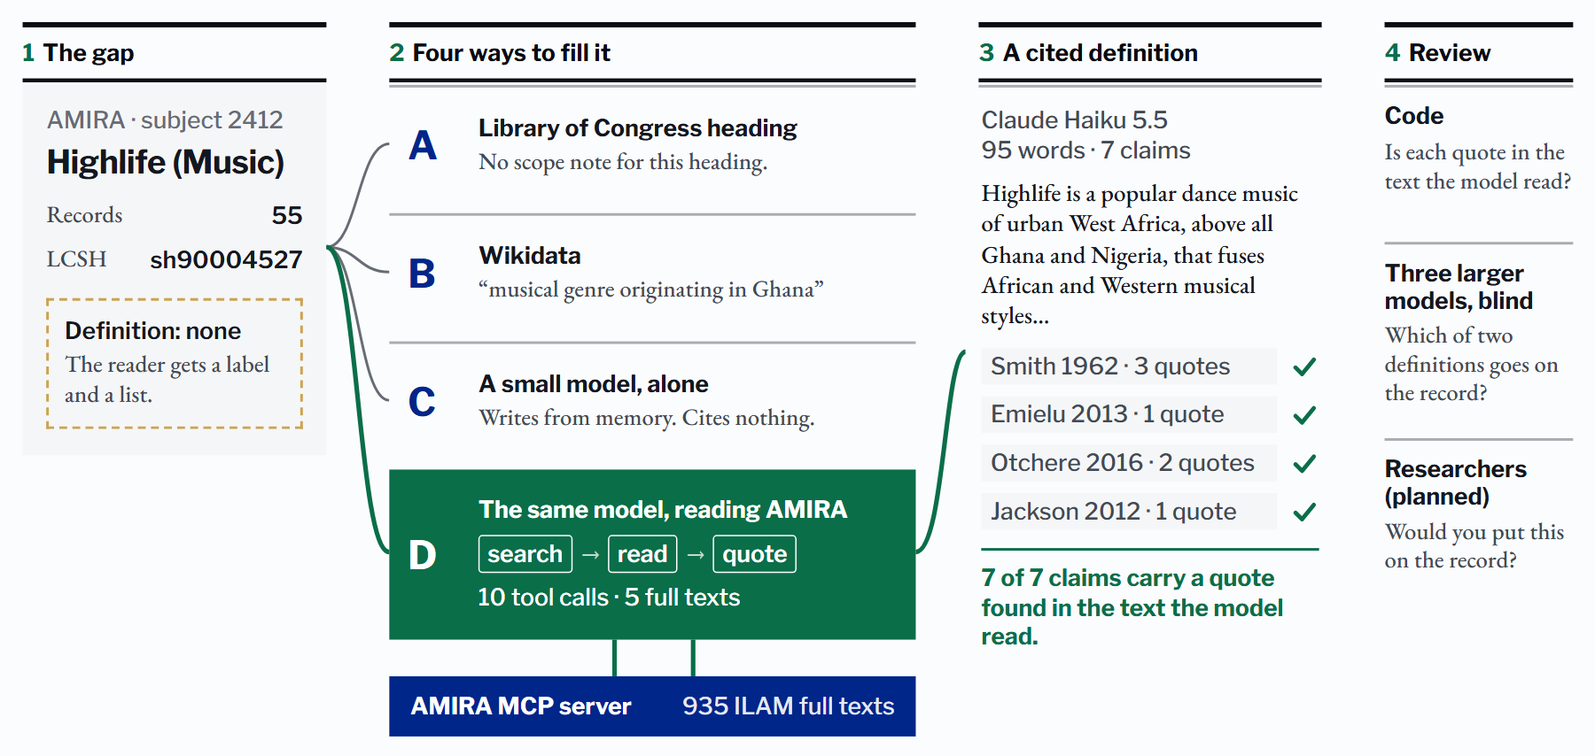
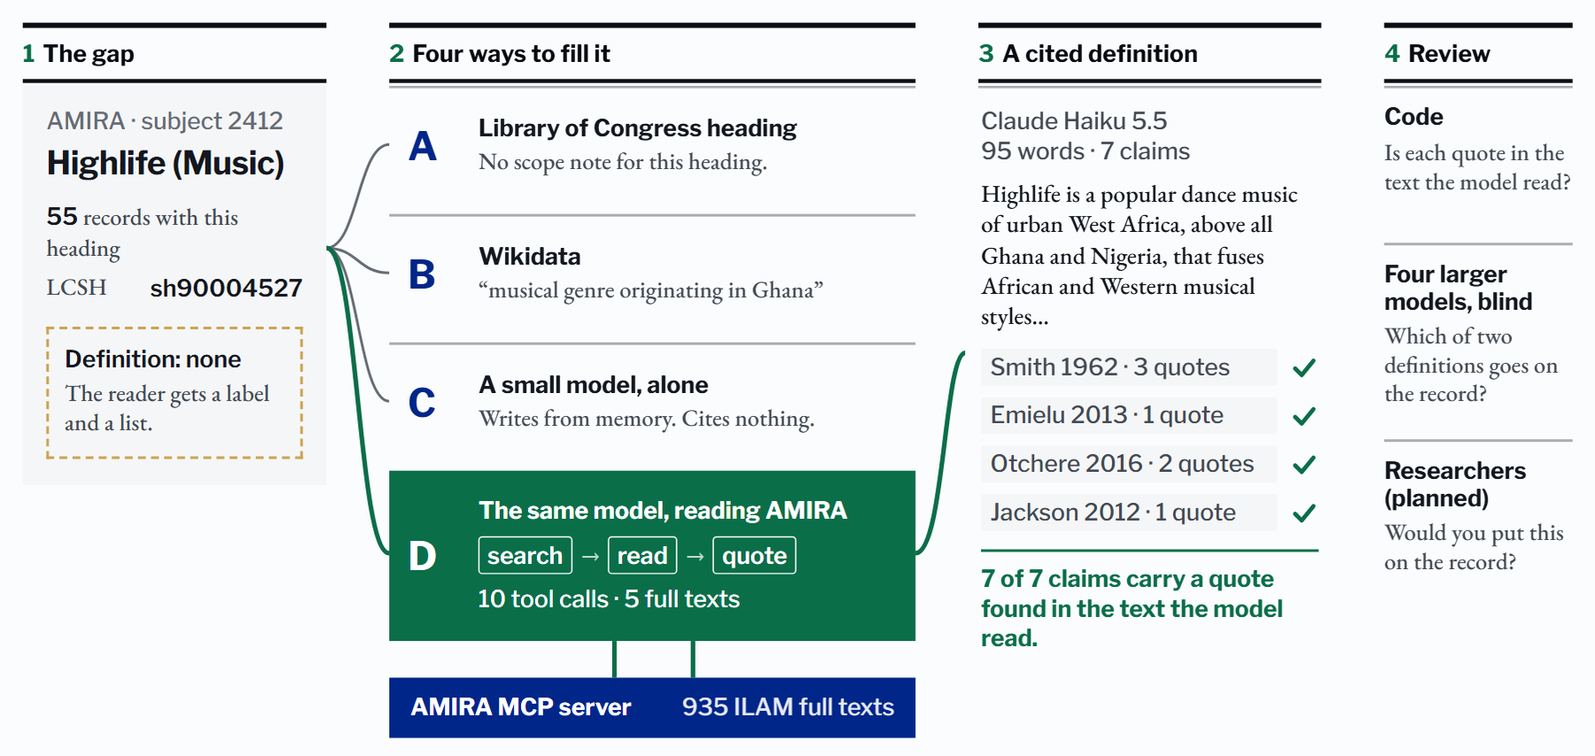
HKADH deck: panel of four judges, six authors, what the record count counts
- Blind panel: 45 pairs of 25 November, the reading without the judge of
  the author's family first, all four judges beside it.
- The gap and the pipeline: 55 records carry the heading (52 recordings,
  3 articles); four judge models; credit to the work upstream in the notes.
- Why MCP: named, read-only tools from a closed list; ten tools set in code.
- Limits: the aim is how this archive defines a concept.
- Next steps: ranked and semantic retrieval, local models, 50 concepts,
  review by researchers.
- Pipeline fallback image and reading edition regenerated.

diff --git a/talks/2027-01-21-hong-kong-knowledge-gaps-and-mediated-access/index.html b/talks/2027-01-21-hong-kong-knowledge-gaps-and-mediated-access/index.html
@@ -117,6 +117,8 @@
   .reveal .pl .record .rec-list { margin: 0; display: grid; grid-template-columns: auto 1fr; gap: 9px 14px; font-size: 18px; line-height: 1.2; }
   .reveal .pl .record .rec-k { color: var(--pl-ink-soft); }
   .reveal .pl .record .rec-v { margin: 0; font: 600 18px/1.35 var(--font-label); text-align: right; }
+  .reveal .pl .record .rec-n { grid-column: 1 / -1; }
+  .reveal .pl .record .rec-n b { font: 600 18px/1.35 var(--font-label); color: var(--pl-ink); }
   .reveal .pl .record .gap { grid-column: 1 / -1; margin-top: 8px; padding: 12px 12px 14px; border: 2px dashed var(--pl-gold); font: 600 18px/1.25 var(--font-label); }
   .reveal .pl .record .gap span { display: block; font: 500 18px/1.25 var(--pl-font-body); color: var(--pl-ink-soft); margin-top: 3px; }
 
@@ -333,6 +335,7 @@
             <li>Exposes the same catalogue to language models</li>
             <li>Plain-language tools the model selects itself</li>
             <li>Built-in rules on citation and private text</li>
+            <li>Named, read-only tools from a closed list</li>
             <li>One open standard across clients and our harness</li>
           </ul>
         </div>
@@ -342,8 +345,8 @@
         We set the tools and their outputs; the assistant and its provider control the final answer.
       </div>
       <aside class="notes">
-        <p>MCP stands for Model Context Protocol. AMIRA already exposes an Omeka S API, which requires a programmer to write a query for each new question. Our MCP server sits on top of it and presents the catalogue as named tools, alongside instructions on how to cite records and handle private text. A researcher asks a question in an assistant they already use, such as Claude, ChatGPT or a command-line agent, and the model picks the right tool, receives linked catalogue records and drafts a reply without anyone writing code.</p>
-        <p>Because the protocol is open, models from four providers ran against the same ten tools in our test harness. Control remains divided: we govern what the server exposes, while the model and its provider decide what enters the reply and whether our links survive. One practical constraint is keyword search, which misses variant spellings or other languages unless the record itself includes them.</p>
+        <p>MCP stands for Model Context Protocol. AMIRA already exposes an Omeka S API, which requires a programmer to write a query for each new question. Our MCP server sits on top of it and presents the catalogue as named tools, alongside instructions on how to cite records and handle private text. A researcher asks in an assistant they already use, and the model picks a tool, receives linked catalogue records and drafts a reply, with no code written.</p>
+        <p>Because the protocol is open, models from six makers ran against the same server in our harness. The harness gives them ten of its tools through a list in code, not through the prompt, and every tool only reads. Before any tool result, the instructions and tool descriptions take 3,901 to 7,470 tokens, depending on the provider. Control remains divided: we govern what the server exposes, while the model and its provider decide what enters the reply and whether our links survive.</p>
       </aside>
     </section>
 
@@ -395,7 +398,7 @@
         </figure>
         <div class="col">
           <dl class="evidence-reading">
-            <div><dt>Records</dt><dd>55</dd></div>
+            <div><dt>Records with this heading</dt><dd>55</dd></div>
             <div><dt>Definition</dt><dd>None</dd></div>
           </dl>
           <p class="lead">Readers also need to know what a concept means and how the research catalogued in AMIRA uses it.</p>
@@ -406,8 +409,8 @@
         </div>
       </div>
       <aside class="notes">
-        <p>Take the AMIRA subject Highlife (Music). It has fifty-five records and a link to its Library of Congress heading. A reader who has never heard of highlife gets a label and a list of records, and nothing that says what highlife is. Many authority records in AMIRA are in the same state; we have not yet counted how many.</p>
-        <p>The links show which records share a heading, but not what the concept means or how the researchers catalogued in AMIRA use it. That is the gap our pilot addresses: drafting a short definition grounded in those holdings, with every claim tied to an article.</p>
+        <p>Take the AMIRA subject Highlife (Music), linked to its Library of Congress heading. Fifty-five records carry that heading, as we read it on 25 November: fifty-two recordings and three articles. In full text, thirty-eight articles of the ILAM journal mention highlife, and only those three carry the heading. A reader who has never heard of highlife gets a label and a list, and nothing that says what highlife is. Many authority records in AMIRA are in the same state; we have not yet counted how many.</p>
+        <p>That is the gap our pilot addresses: drafting a short definition grounded in those holdings, with every claim tied to an article.</p>
       </aside>
     </section>
 
@@ -483,7 +486,7 @@
     </section>
 
     <section class="pipeline-slide" data-toc="The pipeline">
-      <div class="pl" role="img" aria-label="Pipeline: an AMIRA subject record with no definition is defined four ways (Library of Congress heading, Wikidata, a small model alone, the same model reading AMIRA through its MCP server). The route D result is a definition record whose quotes are checked by code against the text the model read. A blind panel of three larger models chooses between definitions; review by researchers is planned.">
+      <div class="pl" role="img" aria-label="Pipeline: an AMIRA subject record with no definition is defined four ways (Library of Congress heading, Wikidata, a small model alone, the same model reading AMIRA through its MCP server). The route D result is a definition record whose quotes are checked by code against the text the model read. A blind panel of four larger models chooses between definitions; review by researchers is planned.">
         <div class="pl-fit" aria-hidden="true"><div class="pl-stage">
         <!-- column heads -->
         <div class="col-head abs" data-step="0" style="left:48px;  top:128px; width:232px;"><b>1</b>The gap</div>
@@ -496,7 +499,7 @@
         <div class="id">AMIRA · subject 2412</div>
         <div class="rec-title">Highlife (Music)</div>
         <div class="rec-list">
-        <div class="rec-k">Records</div><div class="rec-v">55</div>
+        <div class="rec-k rec-n"><b>55</b> records with this heading</div>
         <div class="rec-k">LCSH</div><div class="rec-v">sh90004527</div>
         <div class="gap">Definition: none<span>The reader gets a label and a list.</span></div>
         </div>
@@ -565,13 +568,13 @@
         <div class="r-h">Code</div><div class="r-p">Is each quote in the text the model read?</div>
         </div>
         <div class="review abs" data-step="5" style="left:1088px; top:296px; width:144px;">
-        <div class="r-h">Three larger models, blind</div><div class="r-p">Which of two definitions goes on the record?</div>
+        <div class="r-h">Four larger models, blind</div><div class="r-p">Which of two definitions goes on the record?</div>
         </div>
         <div class="review abs" data-step="5" style="left:1088px; top:446px; width:144px;">
         <div class="r-h">Researchers (planned)</div><div class="r-p">Would you put this on the record?</div>
         </div>
         </div></div>
-        <img class="viz-fallback" hidden src="assets/pipeline.png" alt="Pipeline in four columns. The gap: the AMIRA subject Highlife (Music) has 55 records and no definition. Four ways to fill it: A, the Library of Congress heading, with no scope note; B, Wikidata, 'musical genre originating in Ghana'; C, a small model alone; D, the same model reading AMIRA through its MCP server. Only route D leads to a cited definition: Claude Haiku 5.5, 95 words, 7 claims, each with a quote found in the text the model read, from four sources. Review: by code, then by a blind panel of three larger models; review by researchers is planned.">
+        <img class="viz-fallback" hidden src="assets/pipeline.png" alt="Pipeline in four columns. The gap: the AMIRA subject Highlife (Music) is the heading of 55 records and has no definition. Four ways to fill it: A, the Library of Congress heading, with no scope note; B, Wikidata, 'musical genre originating in Ghana'; C, a small model alone; D, the same model reading AMIRA through its MCP server. Only route D leads to a cited definition: Claude Haiku 5.5, 95 words, 7 claims, each with a quote found in the text the model read, from four sources. Review: by code, then by a blind panel of four larger models; review by researchers is planned.">
       </div>
       <span class="fragment" data-pipeline-step aria-hidden="true"></span>
       <span class="fragment" data-pipeline-step aria-hidden="true"></span>
@@ -579,12 +582,12 @@
       <span class="fragment" data-pipeline-step aria-hidden="true"></span>
       <span class="fragment" data-pipeline-step aria-hidden="true"></span>
       <aside class="notes">
-        <p>[on arrival: the gap] Here is the pilot as a pipeline. It starts from the gap: the highlife record, with no definition.</p>
-        <p>[→ four ways: A and B] Routes A and B are the two baselines I have just shown.</p>
-        <p>[→ route C] Route C is a small language model on its own, with no tools. It writes from memory, which is likely to include Wikipedia, and cites nothing.</p>
+        <p>[on arrival: the gap] The pilot starts from the gap: the highlife record, with no definition. Its links to the Library of Congress and Wikidata rest on Jiayu Yang's work upstream, disambiguating our keywords and reconciling them with Wikidata.</p>
+        <p>[→ four ways: A and B] Routes A and B are the baselines I have just shown.</p>
+        <p>[→ route C] Route C is a small language model on its own, with no tools. It writes from memory and cites nothing.</p>
         <p>[→ route D] Route D is the same model reading AMIRA through the MCP server: it searches, reads full texts and quotes them. ILAM's text is private, so you will only see short quotes from it.</p>
         <p>[→ the cited definition] The answer comes back as a record: a definition of at most 120 words, and claims, each with a short quote of about twenty-five words at most and its source. Code checks every quote against the cited record's own text.</p>
-        <p>[→ review] Review has three layers. Code checks the quotes. A blind panel of three flagship models, larger than the small ones that write, chooses between two definitions. I will show its verdicts, which no researcher has calibrated yet. Review by researchers is still to come.</p>
+        <p>[→ review] Review has three layers. Code checks the quotes. A blind panel of four flagship models, larger than the six small ones that write, chooses between two definitions. Review by researchers is still to come.</p>
       </aside>
     </section>
 
@@ -701,8 +704,9 @@
       </div>
       <p class="source">Articles: full-text matches in <em>African Music</em> (ILAM). Wikidata, definitions (four models, one run per cell) and open verdicts (no answer key: Claude Opus 5.5, GPT-6 Astra, Gemini 4 Argon; uncalibrated; unanimous), 17 November 2026. Claude Haiku 5.5 left out: no usable grounded talking-drum definition.</p>
       <aside class="notes">
-        <p>A co-author suggested this test: one English name for several distinct drums. 'Talking drum' is the generic term, with fifty-seven articles in the journal. The Yoruba dùndún of Nigeria has twenty-six. The Akan donno of Ghana, also spelled dondo, has nine under the first spelling. Wikidata has an item for the talking drum only, and the Yoruba label 'Dundun' sits on the item for the Mande dunun, a different drum.</p>
-        <p>The donno is where the archive knows something the models do not. Alone, only one of four definitions places it in Ghana; one assigns it to the Fula and the Sahel and says it is unsure, and one describes a slit drum. Reading the full texts, two definitions place it with the Akan of Ghana, and one reports that an older and a newer source disagree on who plays it. We asked the three judges, with no answer key, whether each model's three definitions keep the drums apart. Counting only the three models that produced usable grounded definitions for all three drums: alone, three of nine verdicts rated them distinct; reading full texts, six; with short passages only, none, and every verdict noted the same fault: dondo merged with a Yoruba drum.</p>
+        <p>A co-author suggested this test. 'Talking drum' is the generic term, with fifty-seven articles in the journal. The Yoruba dùndún of Nigeria has twenty-six. The Akan donno of Ghana, also spelled dondo, has nine under the first spelling. Wikidata has an item for the talking drum only, and the Yoruba label 'Dundun' sits on the item for the Mande dunun, a different drum.</p>
+        <p>AMIRA has one Library of Congress heading here, Talking drum, on seven records. The archive keeps the two drums related to it apart, mostly on records without that heading: twenty-three of the twenty-six on dùndún, eight of the nine on donno.</p>
+        <p>The donno is where the archive knows something the models do not. Alone, only one of four definitions places it in Ghana. Reading the full texts, two definitions place it with the Akan of Ghana. On 17 November we asked three judges, with no answer key, whether each model's three definitions keep the drums apart. Counting the three models with usable grounded definitions for all three drums: alone, three of nine verdicts rated them distinct; reading full texts, six; with short passages only, none, and every verdict noted the same fault: dondo merged with a Yoruba drum.</p>
       </aside>
     </section>
 
@@ -712,28 +716,30 @@
         <div class="col">
           <table>
             <thead>
-              <tr><th>Pairs, by majority of three judges</th><th class="num">Model alone</th><th class="num">Reading AMIRA</th><th class="num">Neither</th></tr>
+              <tr><th>45 pairs, by majority</th><th class="num">Reading AMIRA</th><th class="num">Model alone</th><th class="num">Neither</th></tr>
             </thead>
             <tbody>
-              <tr><td>Well covered on Wikipedia: highlife, timbila, talking drum</td><td class="num">7</td><td class="num">3</td><td class="num">1</td></tr>
-              <tr><td>The Cluster’s concepts: multiplicity, relationality, reflexivity</td><td class="num">3</td><td class="num">5</td><td class="num">4</td></tr>
-              <tr><td>No Wikipedia article: dondo, dùndún</td><td class="num">0</td><td class="num">4</td><td class="num">4</td></tr>
-              <tr class="sum"><td>All eight concepts, 31 pairs</td><td class="num">10</td><td class="num">12</td><td class="num">9</td></tr>
+              <tr class="sum"><td>Without the judge of the author’s family</td><td class="num">23</td><td class="num">13</td><td class="num">9</td></tr>
+              <tr><td>All four judges</td><td class="num">21</td><td class="num">9</td><td class="num">15</td></tr>
+              <tr><td>of which 5 concepts with little on Wikipedia</td><td class="num">16</td><td class="num">2</td><td class="num">11</td></tr>
+              <tr><td>of which 3 well covered: highlife, timbila, talking drum</td><td class="num">5</td><td class="num">7</td><td class="num">4</td></tr>
             </tbody>
           </table>
+          <p>The lead holds with any one judge or any one concept left out.</p>
         </div>
         <div class="col">
           <div class="callout warm">
-            <span class="callout-label">The judges know what the models know</span>
-            They score from their own training, the knowledge the model alone draws on. No researcher has calibrated them.
+            <span class="callout-label">Uncalibrated judges</span>
+            They score from their own training, the knowledge the model alone draws on. No researcher has checked them.
           </div>
-          <p class="source">Claude Opus 5.5, GPT-6 Astra and Gemini 4 Argon chose between each author model’s two definitions, text only, in both orders; a verdict that changed with the order counts as neither. Both routes had the same writing rules. Verdicts 24 November 2026; one run per cell. Wikipedia measured after the first verdicts. Talking drum: 3 pairs.</p>
+          <p class="source">Claude Opus 5.5, GPT-6 Astra, Gemini 4 Carbon and Qwen4 Max chose between each of six author models’ two definitions, text only, in both orders; a verdict that changed with the order counts as neither. Verdicts 25 November 2026; one run per cell. English Wikipedia measured after the first verdicts.</p>
         </div>
       </div>
       <aside class="notes">
-        <p>Next, a blind panel. Three flagship models, Claude Opus 5.5, GPT-6 Astra and Gemini 4 Argon, read each author model's two definitions, one written alone and one from AMIRA, stripped of names, routes and quotes. Their task was to choose which one belonged on the record. Each judge read each pair twice, in both orders, and both routes had the same writing rules. Of thirty-one pairs, reading AMIRA won twelve and the model alone ten; nine were undecided.</p>
-        <p>The split runs along what the models are likely to know. Highlife, timbila and the talking drum are well covered on English Wikipedia, and there the model alone won seven pairs of eleven. The Cluster's concepts and the two regional drums have no article in the sense we mean, and there reading AMIRA won nine of twenty, the model alone three. We measured Wikipedia after the first verdicts, so this pattern describes these eight concepts; it is a hypothesis for the next run, not a confirmed result. The dondo is the clearest case: reading AMIRA won three pairs of four, the model alone none.</p>
-        <p>The judges' bias is part of the result. One marked down Haiku's highlife definition for 'a garbled Konkomba for konkoma', but Konkomba is the spelling in Edna Smith's 1962 article, which the model quoted. On the drums the same knowledge worked the other way: the judges placed the dondo with the Akan of Ghana unprompted. A judge model cannot stand in for a reader who knows the field.</p>
+        <p>Next, a blind panel. Four flagship models, Claude Opus 5.5, GPT-6 Astra, Gemini 4 Carbon and Qwen4 Max, read each author's two definitions, one written alone and one from AMIRA, stripped of names, routes and quotes, and chose which belonged on the record, in both orders. Six small models wrote: the four you have seen, plus DeepSeek V4.1 Flash and Qwen3.8 27B. Each judge's maker also made one author, so we leave that judge out: reading AMIRA then wins twenty-three pairs of forty-five, the model alone thirteen. With all four judges it is twenty-one to nine. The lead holds with any one judge or any one concept left out.</p>
+        <p>Most of the gain over our earlier figure comes from the two new authors: of their fourteen pairs, reading AMIRA won eleven. For Claude Haiku and Gemini Flash-Lite, the panel prefers the model alone.</p>
+        <p>The split runs along what the models are likely to know. On the five concepts with little on Wikipedia, reading AMIRA won sixteen pairs, the model alone two. On highlife, timbila and the talking drum, the model alone won seven, reading AMIRA five. We measured Wikipedia after the first verdicts, so this describes these eight concepts; it tests nothing.</p>
+        <p>The judges' bias is part of the result. One faulted Haiku's highlife definition for its Konkomba singing bands, but Konkomba is the spelling in Edna Smith's 1962 article, which the model quoted. A judge model cannot stand in for a reader who knows the field.</p>
       </aside>
     </section>
 
@@ -750,12 +756,12 @@
         </div>
       </div>
       <div class="callout wide">
-        <span class="callout-label">57 verdicts by the same judges</span>
+        <span class="callout-label">57 verdicts by three judges, four authors</span>
         The grounded text extends or nuances Wikidata in every verdict; it never contradicts it, and never simply agrees. Multiplicity: another sense in 12 of 12. Talking drum: a category, not one hourglass drum, in 9 of 9.
       </div>
       <p class="source">Wikidata Q3860307, read 17 November 2026. Route D definition, 16 November 2026. Open comparison by the three judges, 17 November 2026; one run per cell.</p>
       <aside class="notes">
-        <p>How does the grounded text compare with Wikidata? We asked the same judges, this time openly. Across 57 verdicts, they never judged a grounded definition to contradict Wikidata, and never to simply agree with it; in every case it extends or nuances the entry. For highlife, the grounded texts widen the origin to West Africa or report it as debated. For the talking drum, all nine verdicts say the grounded texts treat it as a category, where Wikidata names one hourglass drum.</p>
+        <p>How does the grounded text compare with Wikidata? On 17 November we asked three judges, openly. Across 57 verdicts, they never judged a grounded definition to contradict Wikidata, and never to simply agree with it; in every case it extends or nuances the entry. For highlife, the grounded texts widen the origin to West Africa or report it as debated. For the talking drum, all nine verdicts say the grounded texts treat it as a category, where Wikidata names one hourglass drum.</p>
         <p>For multiplicity, the two are about different things in all twelve verdicts: Wikidata has the philosophical sense, from Husserl, Bergson and Deleuze; the Cluster uses the word for African and diasporic life-worlds. Only for timbila did a few verdicts, three of twelve, find Wikidata enough by itself. The grounded definitions add to these vocabularies; they do not replace them.</p>
       </aside>
     </section>
@@ -790,7 +796,7 @@
       <div class="cols" style="--cols:3">
         <div class="col">
           <div class="col-head">The judges know what the models know</div>
-          <p>They score from the same training knowledge the model alone uses, and no researcher has calibrated them. One marked down a 1962 spelling the model had quoted faithfully.</p>
+          <p>They score from the same training knowledge the model alone uses, and no researcher has calibrated them. Our aim is how this archive defines a concept, not the best definition: the model alone winning on highlife is no failure.</p>
         </div>
         <div class="col">
           <div class="col-head">Keyword search finds a term only as written</div>
@@ -804,8 +810,8 @@
       </div>
       <p class="source">“Tribal”: AMIRA MCP server, full-text map of 657 <em>African Music</em> articles, 16 November 2026. Every result in this talk: one run per cell.</p>
       <aside class="notes">
-        <p>Three limits. First, uncalibrated judges: they draw on the same training data as the unassisted models, and the Konkomba example shows how that can penalise faithful quotation. Second, keyword search finds a term only as it is written. A term in another language or spelling is missed unless the record carries it.</p>
-        <p>Third, older sources use older vocabulary and spellings. 'Tribal' appears six to seven times per ten thousand words in 1957 and 1962, and less than once from 2007 to 2023, apart from one sparse year. Grounding a definition in AMIRA does not by itself make it a view from Africa. And every result I have shown comes from one run per cell.</p>
+        <p>Three limits. First, uncalibrated judges: they draw on the same training data as the unassisted models. And our aim is not the best possible definition, but how this archive defines the concept; on that reading, the model alone winning on highlife is not a failure. Second, keyword search misses other languages and spellings unless the record carries them.</p>
+        <p>Third, older sources use older vocabulary and spellings. 'Tribal' appears six to seven times per ten thousand words in 1957 and 1962, and less than once from 2007 to 2023. Grounding a definition in AMIRA does not by itself make it a view from Africa. And every result I have shown comes from one run per cell.</p>
       </aside>
     </section>
 
@@ -814,32 +820,32 @@
       <div class="flow">
         <div class="flow-step">
           <span class="step-n">1</span>
-          <span class="step-h">About 50 concepts</span>
-          <p>Grouped by instrument family and genre; three runs per cell.</p>
+          <span class="step-h">Retrieval by rank and meaning</span>
+          <p>Results are not yet ranked by relevance; similarity exists per record, not per passage.</p>
         </div>
         <div class="flow-arrow" aria-hidden="true">→</div>
         <div class="flow-step">
           <span class="step-n">2</span>
-          <span class="step-h">A local open-weight model</span>
-          <p>27B parameters run locally on the passages mode.</p>
+          <span class="step-h">Local open-weight models</span>
+          <p>Through Ollama, for small context windows: prepared, not yet run.</p>
         </div>
         <div class="flow-arrow" aria-hidden="true">→</div>
         <div class="flow-step">
           <span class="step-n">3</span>
-          <span class="step-h">Review by researchers</span>
-          <p>Specialists check drafts and calibrate the judges.</p>
-          <span class="step-q">“Would you put this on the record?”</span>
+          <span class="step-h">About 50 concepts</span>
+          <p>Prompts frozen first; three runs per cell.</p>
         </div>
         <div class="flow-arrow" aria-hidden="true">→</div>
         <div class="flow-step">
           <span class="step-n">4</span>
-          <span class="step-h">Retrieval by meaning</span>
-          <p>Semantic search added to the same MCP server.</p>
+          <span class="step-h">Review by researchers</span>
+          <p>Specialists read the definitions and calibrate the judges.</p>
+          <span class="step-q">“Would you put this on the record?”</span>
         </div>
       </div>
       <aside class="notes">
-        <p>Four steps follow from this pilot. First, we expand from eight concepts to around fifty, grouped into families such as lamellophones, xylophones, drums and popular genres, so generic headings sit beside regional terms as with the talking drum; repeating each cell three times will separate real differences from chance. Second, a co-author will test a 27-billion-parameter open-weight model locally on the passages mode, which would reduce our dependence on a handful of commercial providers.</p>
-        <p>Third, contributing researchers and subject specialists will read both the draft definitions and a sample of claim-and-quotation pairs to calibrate the automated judges. Fourth, we plan to add semantic retrieval behind the same MCP server so queries reach sources written in other languages or variant spellings.</p>
+        <p>Four steps follow. First, retrieval. Search results now come in the catalogue's order, not by relevance, and the server's similarity works on whole records, not on passages. Ranking, then passages found by meaning, would cut tokens for small context windows and reach other languages and spellings. Second, local open-weight models through Ollama, which would reduce our dependence on a few commercial providers; this is prepared but has not run.</p>
+        <p>Third, we freeze the prompts and expand from eight concepts to about fifty, with three runs per cell to separate real differences from chance. Fourth, researchers and subject specialists will read the definitions and a sample of claims and quotations, to calibrate the judges.</p>
       </aside>
     </section>
 
@@ -897,7 +903,7 @@
     </section>
 
     <section class="compare-slide" data-toc="Highlife: reading and additions" data-visibility="uncounted">
-      <h2 class="slide-title">Highlife: what each model read and added</h2>
+      <h2 class="slide-title">Highlife: what four models read and added</h2>
       <table>
         <thead>
           <tr><th>Model</th><th class="num">Tool calls</th><th class="num">Full texts read</th><th>What its definition adds</th></tr>
@@ -917,7 +923,7 @@
       <aside class="notes">
         <p>This adds to the main table what each model did and what its definition contributes. All four opened private full texts, between three and six of them, in six to eighteen tool calls, and all four judged the evidence sufficient.</p>
         <p>Each adds something of its own: Haiku the vernaculars and weekend gatherings, GPT-6 Luna the variation by place and period, Gemini themes of love and social commentary, Mistral harmony in thirds or sixths. Two date highlife, two do not.</p>
-        <p>Two differences matter for a catalogue. Gemini calls highlife an intertribal music, a word it took from a 1962 article and used in its own voice. And three of Mistral's quotes ran past the twenty-five-word limit by stitching separate sentences together, and one could not be found in the text it read. Each model ran once, so the table does not rank them. The fifth model, Ministral 3, which runs locally, has not been run yet.</p>
+        <p>Two differences matter for a catalogue. Gemini calls highlife an intertribal music, a word it took from a 1962 article and used in its own voice. And three of Mistral's quotes ran past the twenty-five-word limit by stitching separate sentences together, and one could not be found in the text it read. Each model ran once, so the table does not rank them. Local models through Ollama are prepared but have not run yet.</p>
       </aside>
     </section>
 

diff --git a/talks/2027-01-21-hong-kong-knowledge-gaps-and-mediated-access/read.html b/talks/2027-01-21-hong-kong-knowledge-gaps-and-mediated-access/read.html
@@ -36,7 +36,7 @@
     <p class="reader-meta">23 slides</p>
   </header>
   <main id="content">
-    <details class="reader-contents"><summary>Contents</summary><nav aria-label="Contents"><ol><li><a href="#slide-1">Knowledge gaps and mediated access</a></li><li><a href="#slide-2">A catalogue should define its own terms</a></li><li><a href="#slide-3">A catalogue of research data held elsewhere</a></li><li><a href="#slide-4">Why an MCP server, not just an API</a></li><li><a href="#slide-5">Two tools this pilot builds on</a></li><li><a href="#slide-6">A label and a list, but no definition</a></li><li><a href="#slide-7">Vocabularies identify a concept; Wikipedia explains only the well known</a></li><li><a href="#slide-8">The sources: ILAM’s journal African Music</a></li><li><a href="#slide-9">The pipeline</a></li><li><a href="#slide-10">Highlife, defined from AMIRA’s sources</a></li><li><a href="#slide-11">Dondo, defined from AMIRA’s sources</a></li><li><a href="#slide-12">Multiplicity, defined from AMIRA’s sources</a></li><li><a href="#slide-13">Four models reading AMIRA on highlife</a></li><li><a href="#slide-14">One English name, three drums</a></li><li><a href="#slide-15">Reading AMIRA helped most where the models knew least</a></li><li><a href="#slide-16">Wikidata, extended but never contradicted</a></li><li><a href="#slide-17">Passages fit a small window; a tight budget cost quality</a></li><li><a href="#slide-18">Three limits of the pilot</a></li><li><a href="#slide-19">What comes next in the pilot</a></li><li><a href="#slide-20">Reading the archive helped most where the models knew least.</a></li><li><a href="#slide-21">Appendix</a></li><li><a href="#slide-22">What happens when someone asks</a></li><li><a href="#slide-23">Highlife: what each model read and added</a></li></ol></nav></details>
+    <details class="reader-contents"><summary>Contents</summary><nav aria-label="Contents"><ol><li><a href="#slide-1">Knowledge gaps and mediated access</a></li><li><a href="#slide-2">A catalogue should define its own terms</a></li><li><a href="#slide-3">A catalogue of research data held elsewhere</a></li><li><a href="#slide-4">Why an MCP server, not just an API</a></li><li><a href="#slide-5">Two tools this pilot builds on</a></li><li><a href="#slide-6">A label and a list, but no definition</a></li><li><a href="#slide-7">Vocabularies identify a concept; Wikipedia explains only the well known</a></li><li><a href="#slide-8">The sources: ILAM’s journal African Music</a></li><li><a href="#slide-9">The pipeline</a></li><li><a href="#slide-10">Highlife, defined from AMIRA’s sources</a></li><li><a href="#slide-11">Dondo, defined from AMIRA’s sources</a></li><li><a href="#slide-12">Multiplicity, defined from AMIRA’s sources</a></li><li><a href="#slide-13">Four models reading AMIRA on highlife</a></li><li><a href="#slide-14">One English name, three drums</a></li><li><a href="#slide-15">Reading AMIRA helped most where the models knew least</a></li><li><a href="#slide-16">Wikidata, extended but never contradicted</a></li><li><a href="#slide-17">Passages fit a small window; a tight budget cost quality</a></li><li><a href="#slide-18">Three limits of the pilot</a></li><li><a href="#slide-19">What comes next in the pilot</a></li><li><a href="#slide-20">Reading the archive helped most where the models knew least.</a></li><li><a href="#slide-21">Appendix</a></li><li><a href="#slide-22">What happens when someone asks</a></li><li><a href="#slide-23">Highlife: what four models read and added</a></li></ol></nav></details>
     <section class="reader-slide" id="slide-1" aria-labelledby="slide-1-title">
 <p class="reader-folio"><a href="index.html#/0">Slide 1</a></p>
 <p class="eyebrow">HKADH 2027 · Education University of Hong Kong, 21 January 2027</p>
@@ -119,6 +119,7 @@
             <li>Exposes the same catalogue to language models</li>
             <li>Plain-language tools the model selects itself</li>
             <li>Built-in rules on citation and private text</li>
+            <li>Named, read-only tools from a closed list</li>
             <li>One open standard across clients and our harness</li>
           </ul>
         </div>
@@ -170,7 +171,7 @@
         </figure>
         <div class="col">
           <dl class="evidence-reading">
-            <div><dt>Records</dt><dd>55</dd></div>
+            <div><dt>Records with this heading</dt><dd>55</dd></div>
             <div><dt>Definition</dt><dd>None</dd></div>
           </dl>
           <p class="lead">Readers also need to know what a concept means and how the research catalogued in AMIRA uses it.</p>
@@ -248,7 +249,7 @@
 <h2 id="slide-9-title" class="reader-fallback-title">The pipeline</h2>
       <div class="pl">
         
-        <a class="reader-image" href="assets/pipeline.png"><img class="viz-fallback" alt="Pipeline in four columns. The gap: the AMIRA subject Highlife (Music) has 55 records and no definition. Four ways to fill it: A, the Library of Congress heading, with no scope note; B, Wikidata, &#x27;musical genre originating in Ghana&#x27;; C, a small model alone; D, the same model reading AMIRA through its MCP server. Only route D leads to a cited definition: Claude Haiku 5.5, 95 words, 7 claims, each with a quote found in the text the model read, from four sources. Review: by code, then by a blind panel of three larger models; review by researchers is planned." src="assets/pipeline.png" loading="lazy" decoding="async"></a>
+        <a class="reader-image" href="assets/pipeline.png"><img class="viz-fallback" alt="Pipeline in four columns. The gap: the AMIRA subject Highlife (Music) is the heading of 55 records and has no definition. Four ways to fill it: A, the Library of Congress heading, with no scope note; B, Wikidata, &#x27;musical genre originating in Ghana&#x27;; C, a small model alone; D, the same model reading AMIRA through its MCP server. Only route D leads to a cited definition: Claude Haiku 5.5, 95 words, 7 claims, each with a quote found in the text the model read, from four sources. Review: by code, then by a blind panel of four larger models; review by researchers is planned." src="assets/pipeline.png" loading="lazy" decoding="async"></a>
       </div>
 </section>
 <section class="reader-slide" id="slide-10" aria-labelledby="slide-10-title">
@@ -351,22 +352,23 @@
         <div class="col">
           <div class="reader-table" role="region" aria-label="Table" tabindex="0"><table>
             <thead>
-              <tr><th>Pairs, by majority of three judges</th><th class="num">Model alone</th><th class="num">Reading AMIRA</th><th class="num">Neither</th></tr>
+              <tr><th>45 pairs, by majority</th><th class="num">Reading AMIRA</th><th class="num">Model alone</th><th class="num">Neither</th></tr>
             </thead>
             <tbody>
-              <tr><td>Well covered on Wikipedia: highlife, timbila, talking drum</td><td class="num">7</td><td class="num">3</td><td class="num">1</td></tr>
-              <tr><td>The Cluster’s concepts: multiplicity, relationality, reflexivity</td><td class="num">3</td><td class="num">5</td><td class="num">4</td></tr>
-              <tr><td>No Wikipedia article: dondo, dùndún</td><td class="num">0</td><td class="num">4</td><td class="num">4</td></tr>
-              <tr class="sum"><td>All eight concepts, 31 pairs</td><td class="num">10</td><td class="num">12</td><td class="num">9</td></tr>
+              <tr class="sum"><td>Without the judge of the author’s family</td><td class="num">23</td><td class="num">13</td><td class="num">9</td></tr>
+              <tr><td>All four judges</td><td class="num">21</td><td class="num">9</td><td class="num">15</td></tr>
+              <tr><td>of which 5 concepts with little on Wikipedia</td><td class="num">16</td><td class="num">2</td><td class="num">11</td></tr>
+              <tr><td>of which 3 well covered: highlife, timbila, talking drum</td><td class="num">5</td><td class="num">7</td><td class="num">4</td></tr>
             </tbody>
           </table></div>
+          <p>The lead holds with any one judge or any one concept left out.</p>
         </div>
         <div class="col">
           <div class="callout warm">
-            <span class="callout-label">The judges know what the models know</span>
-            They score from their own training, the knowledge the model alone draws on. No researcher has calibrated them.
+            <span class="callout-label">Uncalibrated judges</span>
+            They score from their own training, the knowledge the model alone draws on. No researcher has checked them.
           </div>
-          <p class="source">Claude Opus 5.5, GPT-6 Astra and Gemini 4 Argon chose between each author model’s two definitions, text only, in both orders; a verdict that changed with the order counts as neither. Both routes had the same writing rules. Verdicts 24 November 2026; one run per cell. Wikipedia measured after the first verdicts. Talking drum: 3 pairs.</p>
+          <p class="source">Claude Opus 5.5, GPT-6 Astra, Gemini 4 Carbon and Qwen4 Max chose between each of six author models’ two definitions, text only, in both orders; a verdict that changed with the order counts as neither. Verdicts 25 November 2026; one run per cell. English Wikipedia measured after the first verdicts.</p>
         </div>
       </div>
 </section>
@@ -384,7 +386,7 @@
         </div>
       </div>
       <div class="callout wide">
-        <span class="callout-label">57 verdicts by the same judges</span>
+        <span class="callout-label">57 verdicts by three judges, four authors</span>
         The grounded text extends or nuances Wikidata in every verdict; it never contradicts it, and never simply agrees. Multiplicity: another sense in 12 of 12. Talking drum: a category, not one hourglass drum, in 9 of 9.
       </div>
       <p class="source">Wikidata Q3860307, read 17 November 2026. Route D definition, 16 November 2026. Open comparison by the three judges, 17 November 2026; one run per cell.</p>
@@ -416,7 +418,7 @@
       <div class="cols">
         <div class="col">
           <div class="col-head">The judges know what the models know</div>
-          <p>They score from the same training knowledge the model alone uses, and no researcher has calibrated them. One marked down a 1962 spelling the model had quoted faithfully.</p>
+          <p>They score from the same training knowledge the model alone uses, and no researcher has calibrated them. Our aim is how this archive defines a concept, not the best definition: the model alone winning on highlife is no failure.</p>
         </div>
         <div class="col">
           <div class="col-head">Keyword search finds a term only as written</div>
@@ -436,27 +438,27 @@
       <div class="flow">
         <div class="flow-step">
           <span class="step-n">1</span>
-          <span class="step-h">About 50 concepts</span>
-          <p>Grouped by instrument family and genre; three runs per cell.</p>
+          <span class="step-h">Retrieval by rank and meaning</span>
+          <p>Results are not yet ranked by relevance; similarity exists per record, not per passage.</p>
         </div>
         
         <div class="flow-step">
           <span class="step-n">2</span>
-          <span class="step-h">A local open-weight model</span>
-          <p>27B parameters run locally on the passages mode.</p>
+          <span class="step-h">Local open-weight models</span>
+          <p>Through Ollama, for small context windows: prepared, not yet run.</p>
         </div>
         
         <div class="flow-step">
           <span class="step-n">3</span>
-          <span class="step-h">Review by researchers</span>
-          <p>Specialists check drafts and calibrate the judges.</p>
-          <span class="step-q">“Would you put this on the record?”</span>
+          <span class="step-h">About 50 concepts</span>
+          <p>Prompts frozen first; three runs per cell.</p>
         </div>
         
         <div class="flow-step">
           <span class="step-n">4</span>
-          <span class="step-h">Retrieval by meaning</span>
-          <p>Semantic search added to the same MCP server.</p>
+          <span class="step-h">Review by researchers</span>
+          <p>Specialists read the definitions and calibrate the judges.</p>
+          <span class="step-q">“Would you put this on the record?”</span>
         </div>
       </div>
 </section>
@@ -504,7 +506,7 @@
 </section>
 <section class="reader-slide" id="slide-23" aria-labelledby="slide-23-title">
 <p class="reader-folio"><a href="index.html#/20">Slide 23</a></p>
-<h2 class="slide-title" id="slide-23-title">Highlife: what each model read and added</h2>
+<h2 class="slide-title" id="slide-23-title">Highlife: what four models read and added</h2>
       <div class="reader-table" role="region" aria-label="Table" tabindex="0"><table>
         <thead>
           <tr><th>Model</th><th class="num">Tool calls</th><th class="num">Full texts read</th><th>What its definition adds</th></tr>
